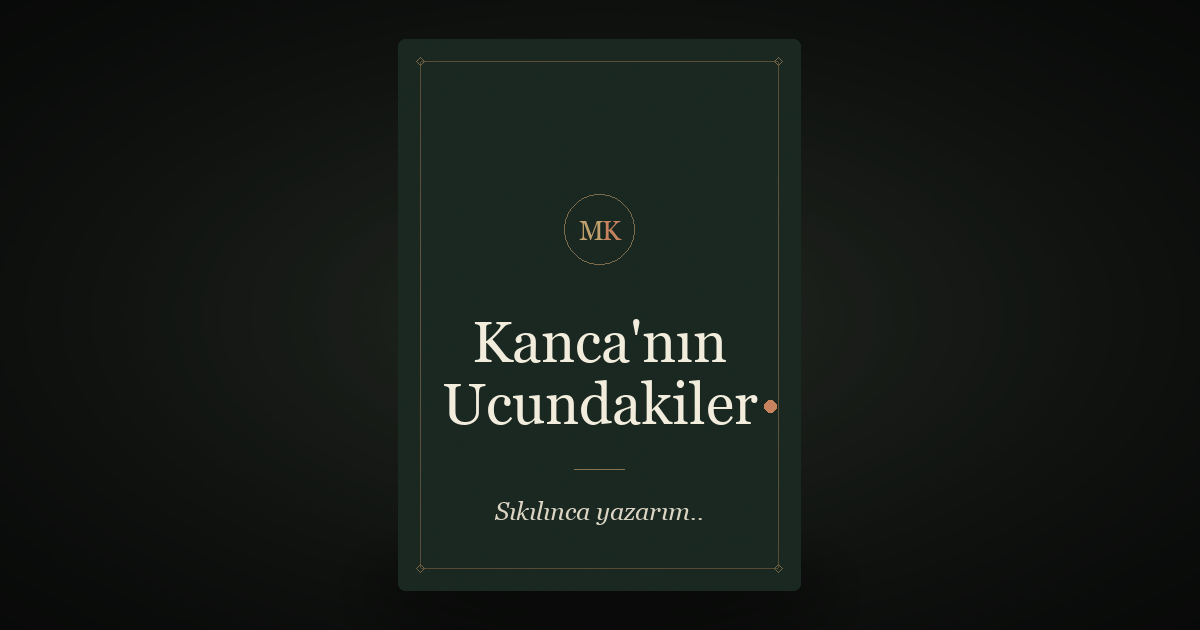
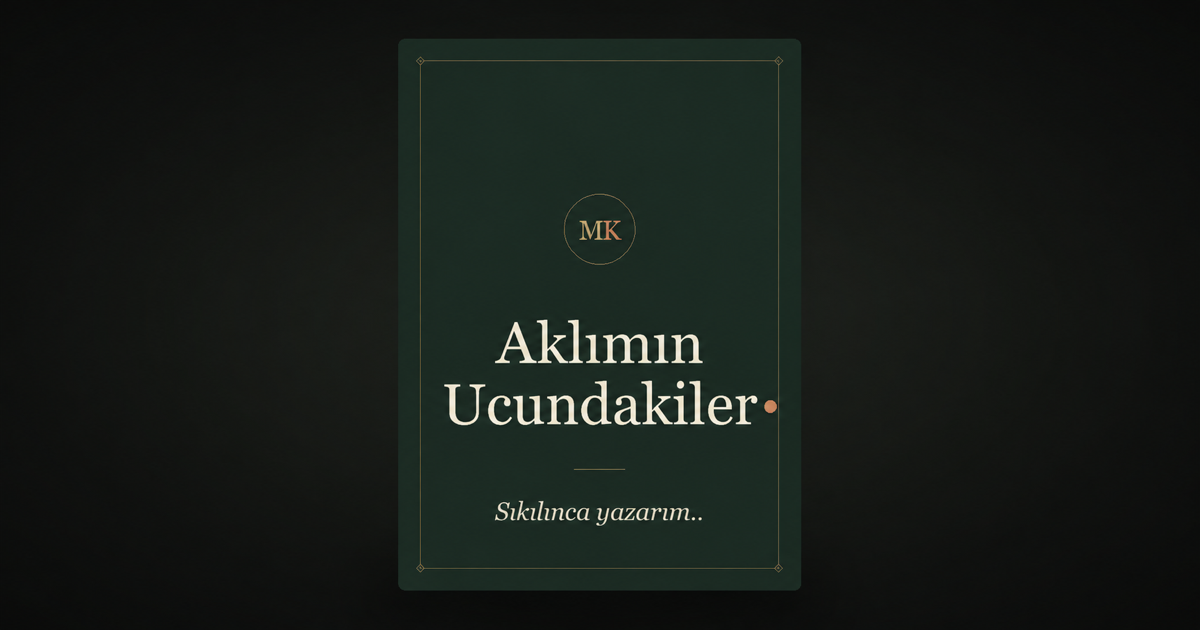
Yazıyı ekle ve kitap adını güncelle

diff --git a/index.html b/index.html
@@ -4,25 +4,25 @@
   <meta charset="utf-8">
   <meta name="viewport" content="width=device-width, initial-scale=1, viewport-fit=cover">
   <meta http-equiv="Content-Security-Policy" content="default-src 'self'; script-src 'self'; style-src 'self' 'unsafe-inline' https://fonts.googleapis.com; font-src https://fonts.gstatic.com; img-src 'self' data: blob: https:; connect-src 'self' https://raw.githubusercontent.com; object-src 'none'; base-uri 'self'; form-action 'self'">
-  <title>Kanca'nın Ucundakiler — Bir yazı defteri</title>
+  <title>Aklımın Ucundakiler — Bir yazı defteri</title>
   <meta name="description" content="Sıkılınca yazarım.. Sürükleyerek okunan, her yazının bir sayfa olduğu kişisel bir defter.">
-  <meta name="author" content="Notlar">
+  <meta name="author" content="Mesut Kuzu">
   <meta name="color-scheme" content="dark">
   <meta name="theme-color" content="#251e18">
   <meta name="robots" content="index,follow,max-image-preview:large">
 
   <meta property="og:type" content="website">
   <meta property="og:locale" content="tr_TR">
-  <meta property="og:title" content="Kanca'nın Ucundakiler — Bir yazı defteri">
+  <meta property="og:title" content="Aklımın Ucundakiler — Bir yazı defteri">
   <meta property="og:description" content="Sıkılınca yazarım.. Sürükleyerek okunan, her yazının bir sayfa olduğu kişisel bir defter.">
-  <meta property="og:image" content="https://mesutkuzu.github.io/notlar/assets/img/og.png">
+  <meta property="og:image" content="https://mesutkuzu.github.io/notlar/assets/img/og.png?v=20261124c">
   <meta name="twitter:card" content="summary_large_image">
-  <meta name="twitter:title" content="Kanca'nın Ucundakiler — Bir yazı defteri">
+  <meta name="twitter:title" content="Aklımın Ucundakiler — Bir yazı defteri">
   <meta name="twitter:description" content="Sıkılınca yazarım..">
-  <meta name="twitter:image" content="https://mesutkuzu.github.io/notlar/assets/img/og.png">
+  <meta name="twitter:image" content="https://mesutkuzu.github.io/notlar/assets/img/og.png?v=20261124c">
 
   <link rel="icon" href="assets/img/favicon.ico?v=20261117s" type="image/x-icon" sizes="16x16 32x32 48x48">
-  <link rel="manifest" href="site.webmanifest?v=20261117s">
+  <link rel="manifest" href="site.webmanifest?v=20261124c">
   <link rel="apple-touch-icon" href="assets/img/icon-180.png?v=20261117s">
 
   <link rel="preconnect" href="https://fonts.googleapis.com">
@@ -31,7 +31,7 @@
 
   <link rel="stylesheet" href="assets/css/base.css?v=20261117m">
   <link rel="stylesheet" href="assets/css/book.css?v=20261124a">
-  <script type="module" src="assets/js/book.js?v=20261124a"></script>
+  <script type="module" src="assets/js/book.js?v=20261124c"></script>
 </head>
 <body class="book-body" id="top">
 
@@ -48,7 +48,7 @@
     <div class="book-area" id="book-area" hidden>
       <div class="book-stage">
         <div class="book-shadow" aria-hidden="true"></div>
-        <div class="book" id="book" role="group" tabindex="0" aria-roledescription="kitap" aria-label="Notlar kitabı">
+        <div class="book" id="book" role="group" tabindex="0" aria-roledescription="kitap" aria-label="Aklımın Ucundakiler">
           <div class="book-cover" aria-hidden="true"></div>
           <div class="book-block book-block--left" aria-hidden="true"></div>
           <div class="book-block book-block--right" aria-hidden="true"></div>
@@ -63,7 +63,7 @@
           <div class="book-turn-shadow" aria-hidden="true"></div>
         </div>
 
-        <div class="single-book" id="single-book" role="group" tabindex="0" aria-roledescription="kitap" aria-label="Notlar kitabı" hidden>
+        <div class="single-book" id="single-book" role="group" tabindex="0" aria-roledescription="kitap" aria-label="Aklımın Ucundakiler" hidden>
           <div class="single-spine" aria-hidden="true"></div>
           <div class="single-block single-block--right" aria-hidden="true"></div>
           <div class="single-block single-block--bottom" aria-hidden="true"></div>

diff --git a/post.html b/post.html
@@ -4,7 +4,7 @@
   <meta charset="utf-8">
   <meta name="viewport" content="width=device-width, initial-scale=1, viewport-fit=cover">
   <meta http-equiv="Content-Security-Policy" content="default-src 'self'; script-src 'self'; style-src 'self' 'unsafe-inline' https://fonts.googleapis.com; font-src https://fonts.gstatic.com; img-src 'self' data: blob: https:; connect-src 'self' https://raw.githubusercontent.com; object-src 'none'; base-uri 'self'; form-action 'self'">
-  <title>Not — Kanca'nın Ucundakiler</title>
+  <title>Not — Aklımın Ucundakiler</title>
   <meta name="description" content="Notlar">
   <meta name="author" content="Mesut Kuzu">
   <meta name="color-scheme" content="dark">
@@ -13,13 +13,13 @@
 
   <meta property="og:type" content="article">
   <meta property="og:locale" content="tr_TR">
-  <meta property="og:title" content="Not — Kanca'nın Ucundakiler">
+  <meta property="og:title" content="Not — Aklımın Ucundakiler">
   <meta property="og:description" content="Notlar">
-  <meta property="og:image" content="https://mesutkuzu.github.io/notlar/assets/img/og.png">
+  <meta property="og:image" content="https://mesutkuzu.github.io/notlar/assets/img/og.png?v=20261124c">
   <meta name="twitter:card" content="summary_large_image">
 
   <link rel="icon" href="assets/img/favicon.ico?v=20261117s" type="image/x-icon" sizes="16x16 32x32 48x48">
-  <link rel="manifest" href="site.webmanifest?v=20261117s">
+  <link rel="manifest" href="site.webmanifest?v=20261124c">
   <link rel="apple-touch-icon" href="assets/img/icon-180.png?v=20261117s">
 
   <link rel="preconnect" href="https://fonts.googleapis.com">
@@ -29,7 +29,7 @@
   <link rel="stylesheet" href="assets/css/base.css?v=20261117m">
   <link rel="stylesheet" href="assets/css/prose.css?v=20261117m">
   <link rel="stylesheet" href="assets/css/reader.css?v=20261122a">
-  <script type="module" src="assets/js/post.js?v=20261122a"></script>
+  <script type="module" src="assets/js/post.js?v=20261124c"></script>
 </head>
 <body class="post-body" id="top">
 
@@ -38,8 +38,8 @@
   <div class="reading-progress" aria-hidden="true"><span id="reading-progress-bar"></span></div>
 
   <header class="reader-header">
-    <a class="brand" href="./" aria-label="Notlar — kitaba dön">
-      <span class="brand-text">notlar</span><span class="brand-dot" aria-hidden="true"></span>
+    <a class="brand" href="./" aria-label="Aklımın Ucundakiler — kitaba dön">
+      <span class="brand-text">aklımın ucundakiler</span><span class="brand-dot" aria-hidden="true"></span>
     </a>
     <nav class="reader-nav" aria-label="Not menüsü">
       <a href="./#kitap">Kitaba dön <span aria-hidden="true">↗</span></a>
@@ -75,7 +75,7 @@
   </main>
 
   <footer class="reader-footer">
-    <span>Kanca'nın Ucundakiler</span>
+    <span>Aklımın Ucundakiler</span>
   </footer>
 
   <noscript>

diff --git a/assets/js/book.js b/assets/js/book.js
@@ -15,13 +15,13 @@ import {
 } from './core.js?v=20261122a';
 import { loadPosts, loadSite } from './data.js?v=20261122a';
 import { renderMarkdown } from './markdown.js?v=20261122a';
-import { storyArt } from './story-art.js?v=20261124a';
+import { storyArt } from './story-art.js?v=20261124c';
 
 const $ = (selector, root = document) => root.querySelector(selector);
 const $$ = (selector, root = document) => [...root.querySelectorAll(selector)];
 
 const DEFAULT_SITE = {
-  title: 'Notlar',
+  title: 'Aklımın Ucundakiler',
   description: 'Sıkılınca yazarım..',
   author: ''
 };
@@ -502,7 +502,7 @@ function makeBackCover() {
 
 function titleLines(raw) {
   const title = String(raw || '').trim();
-  if (!title) return ['Kanca’nın Ucundakiler'];
+  if (!title) return ['Aklımın Ucundakiler'];
 
   const words = title.split(/\s+/);
   if (title.length > 16 && words.length > 1) {
@@ -600,7 +600,7 @@ function coverHTML() {
   const title = state.site.title || DEFAULT_SITE.title;
   const description = escapeHTML(state.site.description || DEFAULT_SITE.description);
 
-  const initials = (state.site.author || state.site.title || 'Notlar')
+  const initials = (state.site.author || state.site.title || 'Aklımın Ucundakiler')
     .split(/\s+/).filter(Boolean).slice(0, 2).map(word => word[0]).join('').toLocaleUpperCase('tr');
 
   return `
@@ -2065,14 +2065,14 @@ function updateUI() {
   if (!total) return;
 
   if (state.closed) {
-    const label = `${state.site.author || 'Notlar'} kitabı, kapalı. Açmak için kapağı çevir.`;
+    const label = `${state.site.author || 'Aklımın Ucundakiler'} kitabı, kapalı. Açmak için kapağı çevir.`;
     dom.book.setAttribute('aria-label', label);
     dom.single.setAttribute('aria-label', label);
     return;
   }
 
   if (state.mode === 'single') {
-    const label = `${state.site.author || 'Notlar'} kitabı, ${
+    const label = `${state.site.author || 'Aklımın Ucundakiler'} kitabı, ${
       state.currentPage + 1
     }. sayfa, ${total} sayfa`;
     dom.single.setAttribute('aria-label', label);
@@ -2085,8 +2085,8 @@ function updateUI() {
   const second = Math.min(first + 1, total - 1);
   const label =
     second > first
-      ? `${state.site.author || 'Notlar'} kitabı, ${first + 1}–${second + 1}. sayfalar, ${total} sayfa`
-      : `${state.site.author || 'Notlar'} kitabı, ${first + 1}. sayfa, ${total} sayfa`;
+      ? `${state.site.author || 'Aklımın Ucundakiler'} kitabı, ${first + 1}–${second + 1}. sayfalar, ${total} sayfa`
+      : `${state.site.author || 'Aklımın Ucundakiler'} kitabı, ${first + 1}. sayfa, ${total} sayfa`;
 
   dom.book.setAttribute('aria-label', label);
 

diff --git a/studio/index.html b/studio/index.html
@@ -4,7 +4,7 @@
   <meta charset="utf-8">
   <meta name="viewport" content="width=device-width, initial-scale=1, viewport-fit=cover">
   <meta http-equiv="Content-Security-Policy" content="default-src 'self'; script-src 'self'; style-src 'self' 'unsafe-inline' https://fonts.googleapis.com; font-src https://fonts.gstatic.com; img-src 'self' data: blob: https:; connect-src 'self' https://api.github.com; frame-src 'self'; object-src 'none'; base-uri 'self'; form-action 'self'">
-  <title>Studio — Notlar</title>
+  <title>Studio — Aklımın Ucundakiler</title>
   <meta name="description" content="Yazma masası.">
   <meta name="robots" content="noindex,nofollow,noarchive">
   <meta name="color-scheme" content="light">
@@ -18,7 +18,7 @@
   <link rel="stylesheet" href="../assets/css/base.css?v=20261117m">
   <link rel="stylesheet" href="../assets/css/prose.css?v=20261117m">
   <link rel="stylesheet" href="../assets/css/editor.css?v=20261122a">
-  <script type="module" src="../assets/js/editor.js?v=20261122a"></script>
+  <script type="module" src="../assets/js/editor.js?v=20261124c"></script>
 </head>
 <body class="studio-body" id="top">
 
@@ -34,7 +34,7 @@
   <!-- Giriş --------------------------------------------------------------- -->
   <section class="auth-view" id="auth-view">
     <header class="auth-header">
-      <a class="brand" href="../"><span class="brand-text">notlar</span><span class="brand-dot" aria-hidden="true"></span></a>
+      <a class="brand" href="../"><span class="brand-text">aklımın ucundakiler</span><span class="brand-dot" aria-hidden="true"></span></a>
       <span class="studio-tag">studio</span>
     </header>
 
@@ -109,7 +109,7 @@
         <button class="icon-button sidebar-toggle" type="button" id="sidebar-toggle" aria-label="Yazı listesini aç">
           <svg><use href="#i-menu"></use></svg>
         </button>
-        <a class="brand" href="../"><span class="brand-text">notlar</span><span class="brand-dot" aria-hidden="true"></span></a>
+        <a class="brand" href="../"><span class="brand-text">aklımın ucundakiler</span><span class="brand-dot" aria-hidden="true"></span></a>
         <span class="topbar-sep" aria-hidden="true">/</span>
         <span class="studio-tag">studio</span>
       </div>

diff --git a/assets/js/editor.js b/assets/js/editor.js
@@ -28,7 +28,7 @@ const DEVICE_TOKEN_KEY = 'notlar:github:token:device';
 const DRAFT_PREFIX = 'notlar:draft:v1:';
 
 const DEFAULT_SITE = {
-  title: 'Notlar',
+  title: 'Aklımın Ucundakiler',
   author: ''
 };
 
@@ -468,13 +468,13 @@ function showAuth() {
   dom.appView.hidden = true;
   dom.authView.hidden = false;
   if (dom.offlineBanner) dom.offlineBanner.hidden = true;
-  document.title = 'Studio — Notlar';
+  document.title = 'Studio — Aklımın Ucundakiler';
 }
 
 function showApp() {
   dom.authView.hidden = true;
   dom.appView.hidden = false;
-  document.title = `${state.site.title || 'Notlar'} — Studio`;
+  document.title = `${state.site.title || 'Aklımın Ucundakiler'} — Studio`;
   syncConnectionUI();
 }
 
@@ -488,7 +488,7 @@ function syncConnectionUI() {
 }
 
 function applySiteBrand() {
-  const title = state.site.title || 'Notlar';
+  const title = state.site.title || 'Aklımın Ucundakiler';
   const lower = title.toLocaleLowerCase('tr');
   for (const node of $$('.brand-text')) node.textContent = lower;
   if (!dom.appView.hidden) document.title = `${title} — Studio`;
@@ -1042,7 +1042,7 @@ function openSettings() {
     showToast('Site ayarları için GitHub anahtarıyla bağlan.');
     return;
   }
-  dom.siteTitle.value = state.site.title || 'Notlar';
+  dom.siteTitle.value = state.site.title || 'Aklımın Ucundakiler';
   dom.siteAuthor.value = state.site.author || '';
   dom.siteDescription.value = state.site.description || '';
   dom.connectionInfo.textContent = `@${state.config.login} · ${state.config.owner}/${state.config.repo} · ${state.config.branch}`;
@@ -1081,7 +1081,7 @@ function bindModals() {
 async function saveSettings() {
   if (!state.github) return;
 
-  const title = dom.siteTitle.value.trim() || 'Notlar';
+  const title = dom.siteTitle.value.trim() || 'Aklımın Ucundakiler';
   const author = dom.siteAuthor.value.trim();
   const description = dom.siteDescription.value.trim();
 

diff --git a/assets/js/post.js b/assets/js/post.js
@@ -15,7 +15,7 @@ import { renderMarkdown } from './markdown.js?v=20261122a';
 const $ = (selector, root = document) => root.querySelector(selector);
 
 const DEFAULT_SITE = {
-  title: 'Notlar',
+  title: 'Aklımın Ucundakiler',
   description: '',
   author: ''
 };
@@ -136,6 +136,10 @@ async function loadPost() {
 function applySite() {
   const site = state.site;
   const title = site.title || DEFAULT_SITE.title;
+  const brand = $('.brand-text');
+  if (brand) brand.textContent = title.toLocaleLowerCase('tr');
+  const footer = $('.reader-footer span');
+  if (footer) footer.textContent = title;
   const authorMeta = $('meta[name="author"]');
   if (authorMeta) authorMeta.setAttribute('content', site.author || title);
 }
@@ -172,7 +176,7 @@ function renderPost(post) {
   dom.article.hidden = false;
   dom.status.hidden = true;
 
-  document.title = `${title} — ${state.site.title || 'Notlar'}`;
+  document.title = `${title} — ${state.site.title || 'Aklımın Ucundakiler'}`;
 
   const descriptionMeta = $('meta[name="description"]');
   if (descriptionMeta) descriptionMeta.setAttribute('content', description);
@@ -192,7 +196,7 @@ function showNotFound() {
   dom.article.hidden = true;
   dom.status.hidden = false;
   dom.status.innerHTML = '<p>Yazı bulunamadı. <a href="./">Tüm yazılara dön</a></p>';
-  document.title = `Yazı bulunamadı — ${state.site.title || 'Notlar'}`;
+  document.title = `Yazı bulunamadı — ${state.site.title || 'Aklımın Ucundakiler'}`;
 }
 
 function showError() {

diff --git a/assets/js/story-art.js b/assets/js/story-art.js
@@ -1,4 +1,18 @@
 export const storyArt = {
+  'acaba-simdi-ne-yapiyor': [
+    {
+      src: 'assets/img/acaba-simdi-ne-yapiyor/gece-gelen-isim.webp?v=20261124a',
+      alt: 'Başını yastığa koymuş, eski bir okul sırasını düşünürken uyanık kalan adam.',
+      anchor: 'Bazen gece yatarken yıllardır görmediğim',
+      position: 'bottom'
+    },
+    {
+      src: 'assets/img/acaba-simdi-ne-yapiyor/eski-bir-tanidik.webp?v=20261124a',
+      alt: 'Elindeki eski sınıf fotoğrafıyla telefonuna bakarken hafifçe gülümseyen adam.',
+      anchor: 'Eskiden âşık olduğum kızlara da bakıyorum.',
+      position: 'bottom'
+    }
+  ],
   'musait-bir-zamanda': [
     {
       src: 'assets/img/musait-bir-zamanda/kosusturma.webp?v=20261121',

diff --git a/404.html b/404.html
@@ -3,7 +3,7 @@
 <head>
   <meta charset="utf-8">
   <meta name="viewport" content="width=device-width, initial-scale=1">
-  <title>Sayfa bulunamadı — Notlar</title>
+  <title>Sayfa bulunamadı — Aklımın Ucundakiler</title>
   <meta name="robots" content="noindex">
   <style>
     :root { color-scheme: light; }
@@ -39,7 +39,7 @@
   </style>
 </head>
 <body>
-  <a class="brand" href="/notlar/">notlar.</a>
+  <a class="brand" href="/notlar/">aklımın ucundakiler.</a>
   <h1>Sayfa bulunamadı.</h1>
   <p>Aradığın sayfa taşınmış veya hiç var olmamış olabilir.</p>
   <a class="home" id="home-link" href="/notlar/">Ana sayfaya dön</a>

diff --git a/assets/css/reader.css b/assets/css/reader.css
@@ -1,5 +1,5 @@
 /* ==========================================================================
-   Kanca'nın Ucundakiler — tek sayfalık okuma görünümü
+   Aklımın Ucundakiler — tek sayfalık okuma görünümü
    Koyu sahne, kâğıt sayfa.
    ========================================================================== */
 

diff --git a/assets/js/index.js b/assets/js/index.js
@@ -17,7 +17,7 @@ const $ = (selector, root = document) => root.querySelector(selector);
 const $$ = (selector, root = document) => [...root.querySelectorAll(selector)];
 
 const DEFAULT_SITE = {
-  title: 'Notlar',
+  title: 'Aklımın Ucundakiler',
   description: '',
   author: ''
 };

diff --git a/content/acaba-simdi-ne-yapiyor.md b/content/acaba-simdi-ne-yapiyor.md
@@ -1,0 +1,15 @@
+# Acaba şimdi ne yapıyor?
+
+Bazen gece yatarken yıllardır görmediğim insanlar geliyor aklıma. İlkokuldaki sıra arkadaşım mesela. Yüzünü hatırlıyorum, sesini de az çok. Ama bugün nerede yaşadığını, ne iş yaptığını bilmiyorum. Son konuşmamızdan beri hayatında neler olmuş, orası tamamen boş. Böyle zamanlarda telefonu elime alıp adını aratıyorum.
+
+İlkokul ve ortaokul arkadaşlarımın çoğundan haberim yok. O zamanlar bu kadar kolay uzaklaşacağımızı düşünmezdim. Her sabah aynı yerdeydik zaten. Görüşmek için aramamız, zaman ayırmamız gerekmiyordu. Okul bittikten sonra yakınlığımızın ne kadarını bu düzene borçlu olduğumuzu anladım. Birbirimizin hayatından çıkarken bunun üzerine pek düşünmedik herhâlde. Ben düşünmedim.
+
+Kendime bakınca aradan geçen yıllarda ne kadar değiştiğimi biliyorum. İstediğim şeyler değişti, bazı fikirlerimden vazgeçtim. Fakat eski arkadaşlarımı düşünürken onları en son gördüğüm hâlleriyle hatırlıyorum. Benim hayatımda bu kadar şey olurken onlarınki de devam etti. Neler yaşadılar, hangi kararları verdiler, bugün geldikleri yerden memnunlar mı? Merakım biraz da burada başlıyor.
+
+Sosyal medyada bulunca hayatlarına dair birkaç şey öğreniyorum. Nerede çalıştıklarını, kimlerle olduklarını görüyorum. Bazen yüzlerini bugünkü hâlleriyle görmek bile hoşuma gidiyor. Yine de fotoğraflar, arada neler olduğunu anlatmaya yetmiyor. İşini öğreniyorum ama o işi isteyerek mi yapıyor, bilmiyorum. Güldüğünü görüyorum ama mutlu mu, onu da çıkaramıyorum. Asıl merak ettiğim şeyler çoğunlukla açıkta kalıyor.
+
+Eskiden âşık olduğum kızlara da bakıyorum. Adlarını görünce o zamanki hâlim geliyor aklıma. Karşılaşma ihtimaline nasıl sevindiğimi, söyleyeceğim iki cümleyi ne kadar düşündüğümü hatırlıyorum. Şimdi bunlara gülümsüyorum ama yaşanırken hafif şeyler değildi. Günümün nasıl geçeceğini belirleyecek kadar güçlüydüler. Hayatlarını merak etmemde biraz da o duyguların hatırı var sanırım.
+
+Arada arkadaşlık isteği de gönderiyorum. Eskiden hoşlandığım kızlar, yıllar sonra adımı görünce hâlâ peşlerinde olduğumu düşünüyor olabilir. Bunu düşününce gülüyorum. Benim kafamdan geçenleri bilmiyorlar tabii. “Gece aklıma geldin, nasıl olduğunu merak ettim” diye açıklasam daha da tuhaf görünecek belki.
+
+Bu merak başkalarında da oluyor mu, bilmiyorum. Benim takıldığım yer, tanıdık gelmekle tanımak arasındaki fark. Yıllar sonra yüzünü görünce tanıyorum elbette. Ama nasıl düşündüğünü, neleri önemsediğini, bugün karşılaşsak ne kadar anlaşabileceğimizi bilmiyorum. Onu tanıdığımı söyleyebilmek için o yıllarda neler yaşadığını da bilmem gerekiyor.

diff --git a/README.md b/README.md
@@ -1,4 +1,4 @@
-# Kanca'nın Ucundakiler
+# Aklımın Ucundakiler
 
 Kişisel bir not defteri. Sade, sürükleyerek okunan 3B bir kitap; GitHub Pages üzerinde çalışır ve notlar `data/posts.json` içinde tutulur. Kapak kapalı açılır; sayfalar sürüklenerek çevrilir. Her not, kendi başlığı ve isteğe bağlı başlık görseliyle kitabın bir sayfası olur.
 
